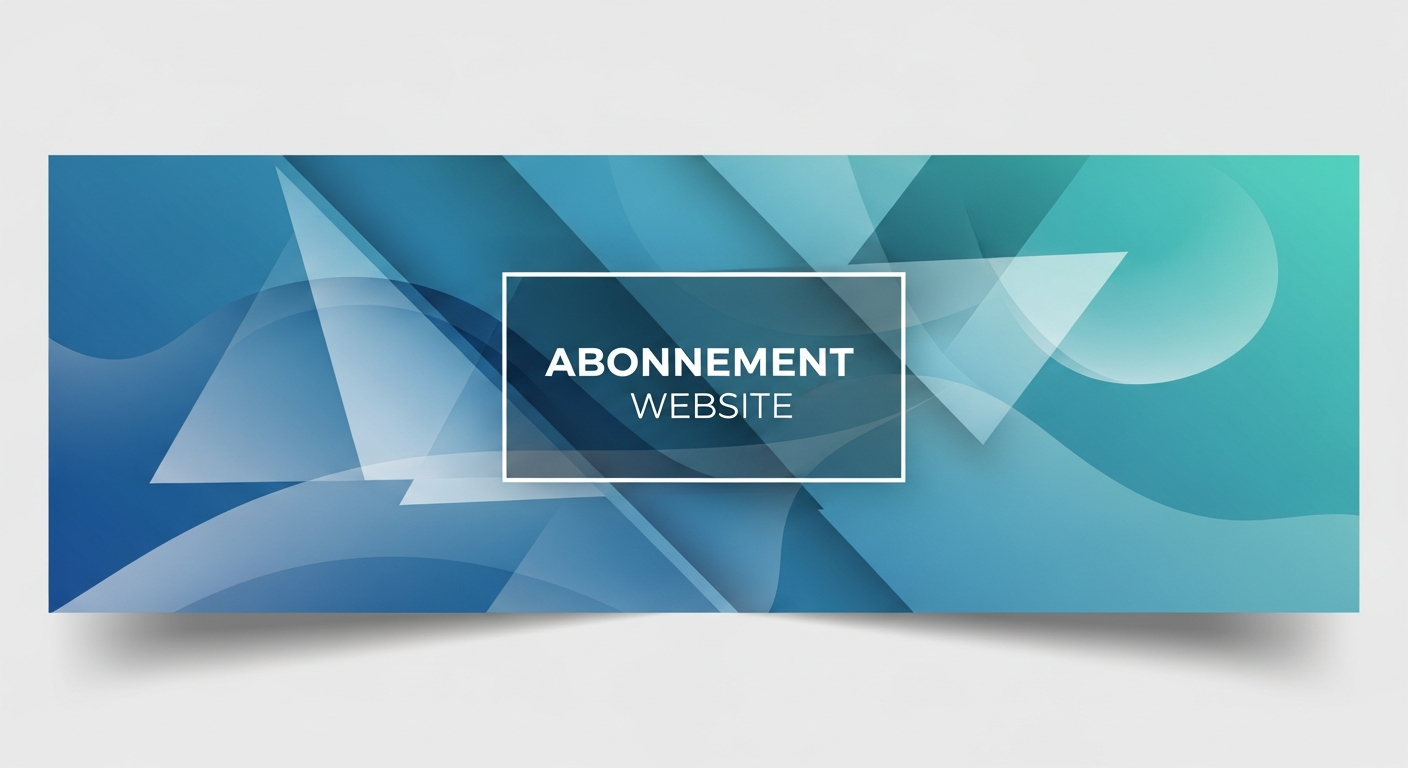
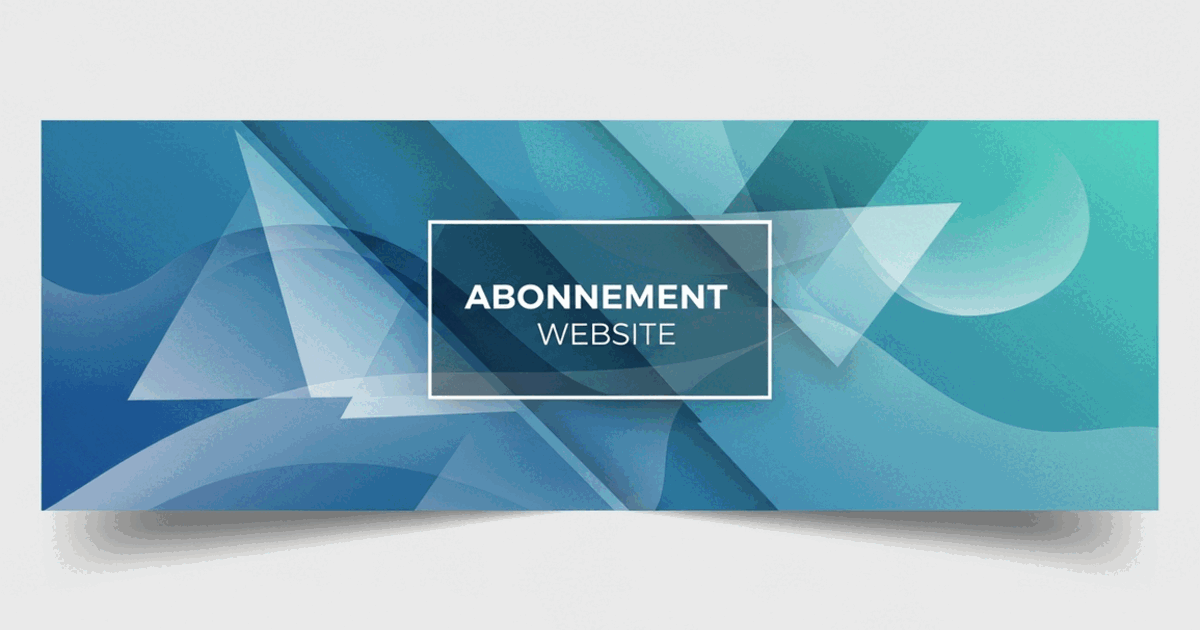
Update blog assets and optimize SEO configurations across application pages
Replit-Commit-Author: Agent

diff --git a/server/blog-prerender.ts b/server/blog-prerender.ts
@@ -2,6 +2,7 @@ import type { RouteMetadata } from "./seo-prerender";
 import { safeDecode } from "./known-routes";
 import type { ContentBlock, InlineNode, BlogArticle } from "@shared/blog";
 import {
+  getSocialImagePath,
   getAllBlogArticles,
   getBlogArticleBySlug,
   getRelatedArticles,
@@ -246,7 +247,7 @@ export function getBlogMetadata(pathname: string): RouteMetadata | undefined {
       canonical: `${BASE_URL}/blog/${article.slug}`,
       ogTitle: title,
       ogDescription: article.metaDescription,
-      ogImage: `${BASE_URL}${article.heroImagePath}`,
+      ogImage: `${BASE_URL}${getSocialImagePath(article)}`,
       structuredData: buildArticleJsonLd(article, BASE_URL),
       staticHtml: renderArticleHtml(article),
     };

diff --git a/client/src/pages/blog/article.tsx b/client/src/pages/blog/article.tsx
@@ -7,6 +7,7 @@ import {
   getRelatedArticles,
   buildArticleJsonLd,
   type BlogArticle,
+  getSocialImagePath,
 } from "@shared/blog";
 import { ArticleRenderer, formatDateNL } from "@/components/blog/article-renderer";
 import NotFound from "@/pages/not-found";
@@ -37,7 +38,7 @@ function ArticleView({ article }: { article: BlogArticle }) {
     title: article.metaTitle ?? article.title,
     description: article.metaDescription,
     canonical: `/blog/${article.slug}`,
-    ogImage: article.heroImagePath,
+    ogImage: getSocialImagePath(article),
     ogType: "article",
     structuredData: buildArticleJsonLd(article),
   });

diff --git a/client/src/hooks/use-seo.ts b/client/src/hooks/use-seo.ts
@@ -29,7 +29,10 @@ export function useSEO({
 }: SEOProps) {
   const { language } = useTranslation();
   useEffect(() => {
-    const fullTitle = absoluteTitle ? title : `${title} | ${SITE_NAME}`;
+    // Match server prerender policy: append the site suffix only when the
+    // combined title still fits within 60 characters (SERP display limit).
+    const withSuffix = `${title} | ${SITE_NAME}`;
+    const fullTitle = absoluteTitle ? title : withSuffix.length <= 60 ? withSuffix : title;
     document.title = fullTitle;
 
     const updateMeta = (name: string, content: string, isProperty = false) => {

diff --git a/client/src/pages/auth/reset-password.tsx b/client/src/pages/auth/reset-password.tsx
@@ -10,7 +10,7 @@ import { apiRequest } from "@/lib/queryClient";
 import { zodResolver } from "@hookform/resolvers/zod";
 import { z } from "zod";
 import { Loader2, ArrowLeft, Lock, CheckCircle, XCircle } from "lucide-react";
-import logoImage from "@assets/4ef942ca-8d76-4222-9f26-919b2fc00dd3_1764969199445.png";
+import logoImage from "@assets/logo-abonnement-website.webp";
 import { ThemeToggle } from "@/components/theme-toggle";
 import { Skeleton } from "@/components/ui/skeleton";
 import { useSEO } from "@/hooks/use-seo";

diff --git a/shared/blog.ts b/shared/blog.ts
@@ -77,6 +77,15 @@ function buildBreadcrumb(
   };
 }
 
+/**
+ * Social share image (Open Graph / Twitter). WebP heroes are used on-page,
+ * but social scrapers (LinkedIn, messaging apps) have inconsistent WebP
+ * support, so social cards use a JPEG variant generated alongside each hero.
+ */
+export function getSocialImagePath(article: BlogArticle): string {
+  return article.heroImagePath.replace(/\.webp$/, ".jpg");
+}
+
 export function buildArticleJsonLd(
   article: BlogArticle,
   baseUrl: string = DEFAULT_BASE_URL,

diff --git a/client/src/components/layout/marketing-header.tsx b/client/src/components/layout/marketing-header.tsx
@@ -8,8 +8,8 @@ import { List, X } from "@phosphor-icons/react";
 import { useState, useEffect } from "react";
 
 import { motion, AnimatePresence, useScroll, useTransform } from "framer-motion";
-import logoImage from "@assets/4ef942ca-8d76-4222-9f26-919b2fc00dd3_1764969199445.png";
-import logoGif from "@assets/Untitled_design_1764969853491.gif";
+import logoImage from "@assets/logo-abonnement-website.webp";
+import logoGif from "@assets/logo-animated.webp";
 
 const ICON_WEIGHT = "duotone" as const;
 

diff --git a/client/src/pages/auth/signup.tsx b/client/src/pages/auth/signup.tsx
@@ -11,7 +11,7 @@ import { useAuth } from "@/lib/auth-context";
 import { apiRequest } from "@/lib/queryClient";
 import { signupSchema } from "@shared/schema";
 import { Loader2, ArrowLeft } from "lucide-react";
-import logoImage from "@assets/4ef942ca-8d76-4222-9f26-919b2fc00dd3_1764969199445.png";
+import logoImage from "@assets/logo-abonnement-website.webp";
 import { ThemeToggle } from "@/components/theme-toggle";
 import { useSEO } from "@/hooks/use-seo";
 import { z } from "zod";

diff --git a/client/src/pages/auth/login.tsx b/client/src/pages/auth/login.tsx
@@ -10,7 +10,7 @@ import { useToast } from "@/hooks/use-toast";
 import { useAuth } from "@/lib/auth-context";
 import { loginSchema, type LoginInput } from "@shared/schema";
 import { Loader2, ArrowLeft } from "lucide-react";
-import logoImage from "@assets/4ef942ca-8d76-4222-9f26-919b2fc00dd3_1764969199445.png";
+import logoImage from "@assets/logo-abonnement-website.webp";
 import { ThemeToggle } from "@/components/theme-toggle";
 import { useSEO } from "@/hooks/use-seo";
 

diff --git a/client/src/pages/auth/forgot-password.tsx b/client/src/pages/auth/forgot-password.tsx
@@ -11,7 +11,7 @@ import { apiRequest } from "@/lib/queryClient";
 import { zodResolver } from "@hookform/resolvers/zod";
 import { z } from "zod";
 import { Loader2, ArrowLeft, Mail, CheckCircle } from "lucide-react";
-import logoImage from "@assets/4ef942ca-8d76-4222-9f26-919b2fc00dd3_1764969199445.png";
+import logoImage from "@assets/logo-abonnement-website.webp";
 import { ThemeToggle } from "@/components/theme-toggle";
 import { useSEO } from "@/hooks/use-seo";
 

diff --git a/client/index.html b/client/index.html
@@ -15,6 +15,7 @@
     <meta property="og:url" content="https://abonnement.website/" />
     <meta property="og:site_name" content="Abonnement.Website" />
     <meta property="og:locale" content="nl_NL" />
+    <meta property="og:locale:alternate" content="en_US" />
     <meta property="og:image" content="https://abonnement.website/og-image.png" />
     <meta property="og:image:width" content="1200" />
     <meta property="og:image:height" content="630" />

diff --git a/client/src/components/layout/marketing-footer.tsx b/client/src/components/layout/marketing-footer.tsx
@@ -2,7 +2,7 @@ import { Link } from "wouter";
 import { Envelope, ShieldCheck, CreditCard, Lock, Globe } from "@phosphor-icons/react";
 import { Button } from "@/components/ui/button";
 import { useTranslation } from "@/lib/i18n-context";
-import logoImage from "@assets/4ef942ca-8d76-4222-9f26-919b2fc00dd3_1764969199445.png";
+import logoImage from "@assets/logo-abonnement-website.webp";
 
 const ICON_WEIGHT = "duotone" as const;
 

diff --git a/shared/blog/wat-kost-een-professionele-website.ts b/shared/blog/wat-kost-een-professionele-website.ts
@@ -14,7 +14,7 @@ export const article: BlogArticle = {
   datePublished: "2026-06-24",
   dateModified: "2026-06-24",
   readingTimeMinutes: 7,
-  heroImagePath: "/blog/wat-kost-een-professionele-website.png",
+  heroImagePath: "/blog/wat-kost-een-professionele-website.webp",
   heroAlt:
     "Illustratie van een prijskaartje aan een laptop met een professionele website",
   blocks: [
